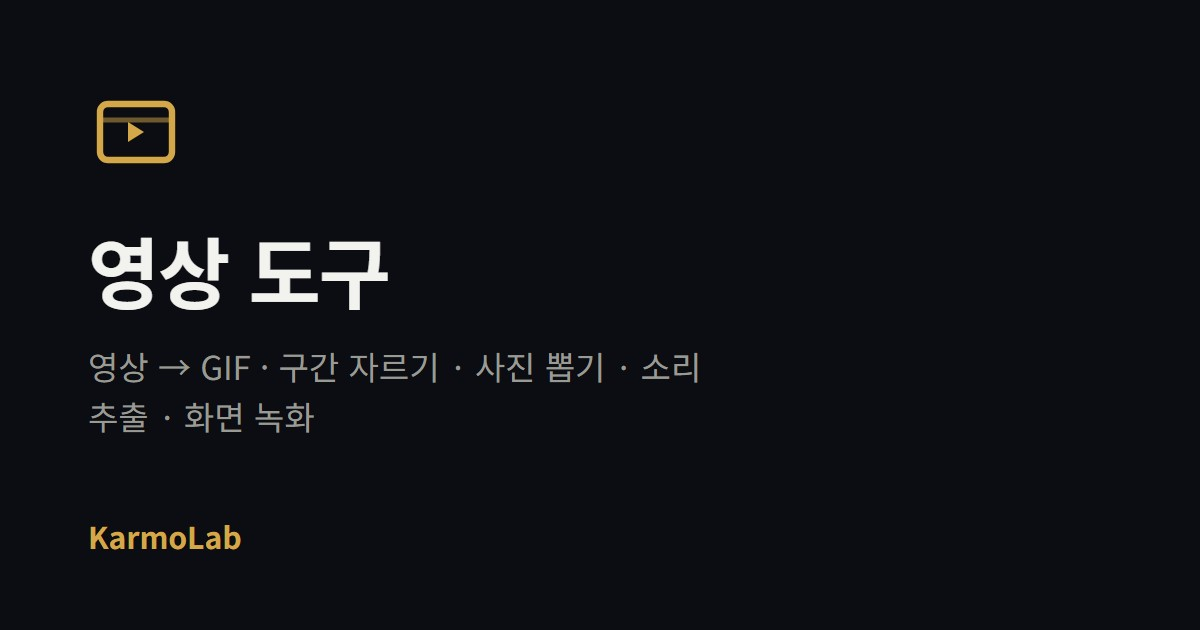
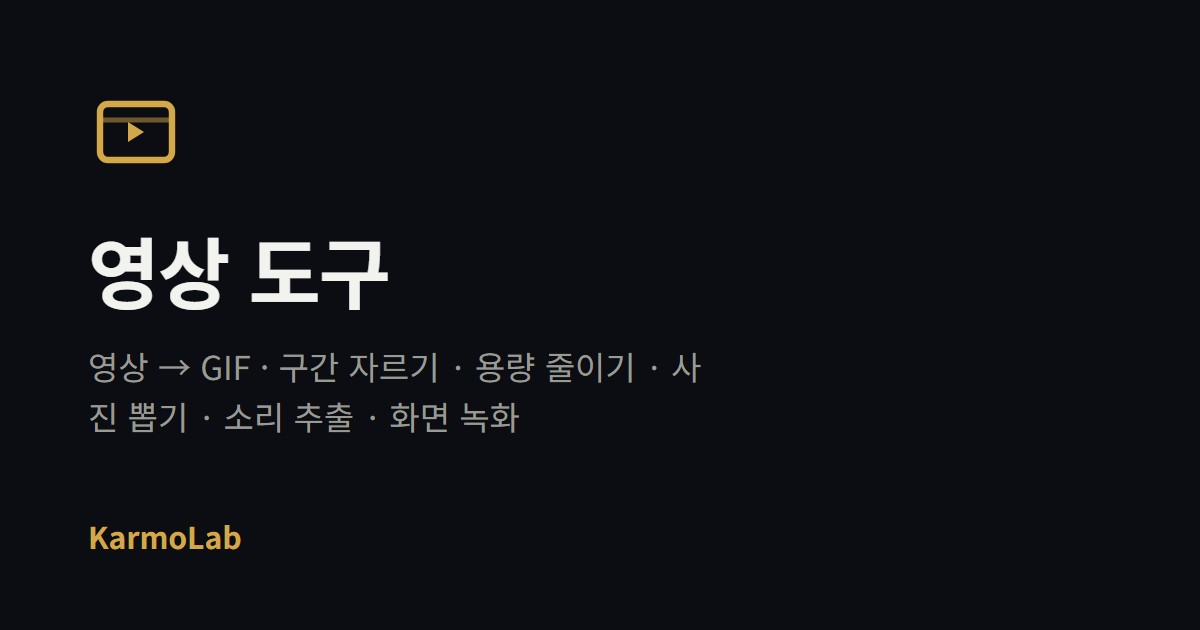
feat(karmolab): 영상 용량 줄이기 (KL-088)
폰으로 찍은 1분 영상이 200MB인데 메일·메신저는 그보다 작은 것만 받는다. 그래서
사람들은 얼굴과 집이 찍힌 파일을 낯선 사이트에 통째로 올린다. 그러지 않아도 되게 했다.

브라우저에는 영상을 다시 엮는 기능이 없어, 재생하면서 작은 화면에 다시 그려 담는다.
즉 영상 길이만큼 걸린다 — 우회가 아니라 유일한 길이라 남은 시간을 그대로 보여 준다.

정직하게 만든 부분: 시작 전에는 예상 용량만 말하고 끝나면 실제 값으로 바꾼다.
이미 잘 눌린 영상은 오히려 커지는데, 그때 줄었다고 우기지 않고 늘었다고 적는다.

Changed region(s): [[0.0617, 0.6333, 0.4317, 0.6937], [0.4008, 0.5429, 0.5858, 0.6032]]

diff --git a/apps/karmolab/src/widgets/tools/videocompress.ts b/apps/karmolab/src/widgets/tools/videocompress.ts
@@ -1,0 +1,283 @@
+/**
+ * 영상 용량 줄이기 (TASK-KL-088)
+ *
+ * 폰으로 찍은 1분 영상이 200MB인데 메일·메신저·제출 창구는 대개 그보다 작은 것만 받는다.
+ * 그래서 사람들은 낯선 사이트에 영상을 통째로 올린다 — 얼굴과 집이 찍힌 파일을.
+ *
+ * 브라우저에는 영상을 다시 엮는 기능이 없다. 대신 **재생하면서 작은 화면에 다시 그려 담을** 수 있다.
+ * 즉 영상 길이만큼 시간이 걸린다. 우회가 아니라 유일한 길이라 숨기지 않고 남은 시간을 보여 준다.
+ *
+ * 「얼마나 줄지」는 해 봐야 알기에, 시작 전 어림값을 보여 주고 끝나면 실제 값으로 바꾼다.
+ * 이미 잘 눌린 영상은 오히려 커질 수 있는데, 그때 줄었다고 우기지 않는다.
+ */
+import { fileSize as size, mmss } from './shared/media';
+import { pickRecordType } from './shared/video';
+
+(function (): void {
+  // captureStream 은 브라우저마다 있고 없고가 갈려 표준 타입에 없다 — 있는지 보고 쓴다.
+  type Capturable = HTMLCanvasElement & { captureStream?: (fps?: number) => MediaStream };
+
+  Toolbox.register({
+    id: 'videocompress',
+    title: '영상 용량 줄이기',
+    category: 'tool',
+    desc: '영상 용량을 줄입니다. 해상도와 화질을 고르고, 영상이 브라우저를 벗어나지 않습니다',
+    layout: 'wide',
+    icon: '<rect x="3" y="5" width="18" height="14" rx="2" stroke="currentColor" stroke-width="1.6" fill="none"/><path d="M8 12h8" stroke="currentColor" stroke-width="1.7" stroke-linecap="round"/><path d="M10.5 9.5 8 12l2.5 2.5M13.5 9.5 16 12l-2.5 2.5" stroke="currentColor" stroke-width="1.5" fill="none" stroke-linecap="round" stroke-linejoin="round"/>',
+    tabs: [
+      {
+        id: 'app',
+        label: '용량 줄이기',
+        build: function (container: HTMLElement): void {
+          container.innerHTML = `
+            <div class="tool-drop" id="vcDrop">
+              <input type="file" id="vcFile" accept="video/*" hidden>
+              영상을 끌어다 놓거나 눌러서 고르세요
+            </div>
+
+            <div id="vcEditor" style="display:none; margin-top:var(--space-lg);">
+              <video id="vcVideo" playsinline muted style="width:100%; max-height:300px; background:#000; border-radius:8px;"></video>
+
+              <div class="field-group" style="margin-top:var(--space-lg);">
+                <div class="tool-grid-2">
+                  <div>
+                    <div class="tool-sublabel">화면 크기 <span id="vcScaleVal" class="range-value">절반</span></div>
+                    <input type="range" id="vcScale" min="1" max="4" step="1" value="2">
+                  </div>
+                  <div>
+                    <div class="tool-sublabel">화질 <span id="vcRateVal" class="range-value">보통</span></div>
+                    <input type="range" id="vcRate" min="1" max="4" step="1" value="2">
+                  </div>
+                </div>
+                <div class="tool-chips" style="margin-top:10px;">
+                  <label class="tool-chip"><input type="checkbox" id="vcAudio" checked> 소리도 함께</label>
+                </div>
+              </div>
+
+              <div class="cc-stats" id="vcStats"></div>
+
+              <div style="display:flex; gap:6px; margin:var(--space-lg) 0; flex-wrap:wrap;">
+                <button class="btn btn-primary" id="vcRun">용량 줄이기</button>
+                <button class="btn btn-ghost" id="vcStop" style="display:none;">중단</button>
+                <button class="btn btn-ghost" id="vcSave" disabled>내려받기</button>
+              </div>
+
+              <div id="vcResult" style="display:none;">
+                <div class="tool-sublabel">줄인 영상 — 확인하고 받으세요</div>
+                <video id="vcPreview" controls playsinline style="width:100%; max-height:280px; background:#000; border-radius:8px;"></video>
+              </div>
+            </div>
+
+            <div class="tool-status" id="vcStatus">영상은 브라우저 안에서만 열립니다 — 어디에도 올리지 않습니다.</div>
+          `;
+
+          const $ = <T extends HTMLElement>(s: string): T => container.querySelector(s) as T;
+          const drop = $<HTMLElement>('#vcDrop');
+          const fileInput = $<HTMLInputElement>('#vcFile');
+          const editor = $<HTMLElement>('#vcEditor');
+          const video = $<HTMLVideoElement>('#vcVideo');
+          const scaleEl = $<HTMLInputElement>('#vcScale');
+          const rateEl = $<HTMLInputElement>('#vcRate');
+          const stats = $<HTMLElement>('#vcStats');
+          const status = $<HTMLElement>('#vcStatus');
+          const runBtn = $<HTMLButtonElement>('#vcRun');
+          const stopBtn = $<HTMLButtonElement>('#vcStop');
+          const saveBtn = $<HTMLButtonElement>('#vcSave');
+          const preview = $<HTMLVideoElement>('#vcPreview');
+
+          const SCALES: Array<[number, string]> = [
+            [0.35, '아주 작게'],
+            [0.5, '절반'],
+            [0.7, '조금 작게'],
+            [1, '그대로']
+          ];
+          // 초당 비트 수 = 용량을 좌우하는 값. 화면이 작으면 적은 값으로도 깨끗하다.
+          const RATES: Array<[number, string]> = [
+            [0.06, '작게'],
+            [0.1, '보통'],
+            [0.16, '좋게'],
+            [0.25, '아주 좋게']
+          ];
+
+          let fileName = '';
+          let sourceSize = 0;
+          let duration = 0;
+          let made: Blob | null = null;
+          let recorder: MediaRecorder | null = null;
+
+          const say = (m: string, kind = ''): void => {
+            status.textContent = m;
+            status.className = 'tool-status' + (kind ? ' ' + kind : '');
+          };
+          const stat = (l: string, v: string, primary = false): string =>
+            `<div class="cc-stat${primary ? ' cc-stat-primary' : ''}"><div class="cc-stat-label">${l}</div><div class="cc-stat-value">${v}</div></div>`;
+
+          function outSize(): { w: number; h: number } {
+            const s = SCALES[parseInt(scaleEl.value, 10) - 1][0];
+            // 짝수로 맞춘다 — 홀수 크기를 싫어하는 코덱이 있다
+            const w = Math.max(2, Math.round((video.videoWidth * s) / 2) * 2);
+            const h = Math.max(2, Math.round((video.videoHeight * s) / 2) * 2);
+            return { w, h };
+          }
+
+          function bitsPerSecond(): number {
+            const { w, h } = outSize();
+            return Math.round(w * h * 30 * RATES[parseInt(rateEl.value, 10) - 1][0]);
+          }
+
+          function refresh(): void {
+            if (!duration) return;
+            $<HTMLElement>('#vcScaleVal').textContent = SCALES[parseInt(scaleEl.value, 10) - 1][1];
+            $<HTMLElement>('#vcRateVal').textContent = RATES[parseInt(rateEl.value, 10) - 1][1];
+            const { w, h } = outSize();
+            const guess = (bitsPerSecond() / 8) * duration;
+            stats.innerHTML =
+              stat('원래 용량', size(sourceSize), true) +
+              stat('만들 크기', `${w}×${h}`) +
+              stat('예상 용량', '약 ' + size(guess)) +
+              // 실시간으로 다시 담기 때문에 영상 길이만큼 걸린다. 미리 알려야 「멈춘 건가」 오해가 없다.
+              stat('걸리는 시간', `약 ${mmss(duration)}`);
+          }
+
+          function load(f: File): void {
+            fileName = f.name;
+            sourceSize = f.size;
+            made = null;
+            saveBtn.disabled = true;
+            $<HTMLElement>('#vcResult').style.display = 'none';
+            video.src = URL.createObjectURL(f);
+            video.onloadedmetadata = () => {
+              duration = video.duration;
+              editor.style.display = '';
+              refresh();
+              say(`${f.name} · ${size(f.size)} · ${video.videoWidth}×${video.videoHeight} — 설정을 고르고 줄이세요.`, 'ok');
+            };
+            video.onerror = () => say('이 영상은 브라우저가 열지 못했어요. mp4·webm 은 대체로 됩니다.', 'error');
+          }
+
+          async function run(): Promise<void> {
+            const { w, h } = outSize();
+            const canvas = document.createElement('canvas') as Capturable;
+            canvas.width = w;
+            canvas.height = h;
+            const ctx = canvas.getContext('2d');
+            if (!ctx || !canvas.captureStream) {
+              say('이 브라우저는 영상 담기를 지원하지 않아요. 크롬·엣지에서 열어 보세요.', 'error');
+              return;
+            }
+
+            made = null;
+            saveBtn.disabled = true;
+            $<HTMLElement>('#vcResult').style.display = 'none';
+
+            const out = canvas.captureStream(30);
+            // 소리는 원본 영상에서 그대로 가져온다 (다시 그리는 건 화면뿐이다)
+            if ($<HTMLInputElement>('#vcAudio').checked) {
+              const withAudio = video as HTMLVideoElement & { captureStream?: () => MediaStream };
+              const src = withAudio.captureStream?.();
+              src?.getAudioTracks().forEach((t) => out.addTrack(t));
+            }
+
+            const mimeType = pickRecordType();
+            const chunks: Blob[] = [];
+            recorder = new MediaRecorder(out, {
+              ...(mimeType ? { mimeType } : {}),
+              videoBitsPerSecond: bitsPerSecond()
+            });
+            recorder.ondataavailable = (ev) => {
+              if (ev.data.size) chunks.push(ev.data);
+            };
+            const finished = new Promise<Blob>((resolve) => {
+              (recorder as MediaRecorder).onstop = () => resolve(new Blob(chunks, { type: mimeType || 'video/webm' }));
+            });
+
+            video.currentTime = 0;
+            runBtn.disabled = true;
+            stopBtn.style.display = '';
+            recorder.start(300);
+            void video.play();
+
+            let raf = 0;
+            const draw = (): void => {
+              ctx.drawImage(video, 0, 0, w, h);
+              raf = requestAnimationFrame(draw);
+            };
+            draw();
+
+            const stop = (): void => {
+              cancelAnimationFrame(raf);
+              video.pause();
+              if (recorder && recorder.state !== 'inactive') recorder.stop();
+            };
+            stopBtn.onclick = stop;
+            video.onended = stop;
+
+            const watch = window.setInterval(() => {
+              const left = Math.max(0, duration - video.currentTime);
+              say(`다시 담는 중… ${mmss(left)} 남음 (영상을 재생하며 담습니다)`);
+            }, 300);
+
+            made = await finished;
+            window.clearInterval(watch);
+            video.onended = null;
+            runBtn.disabled = false;
+            stopBtn.style.display = 'none';
+            recorder = null;
+
+            if (!made || made.size < 100) {
+              say('담긴 내용이 없어요.', 'error');
+              return;
+            }
+            preview.src = URL.createObjectURL(made);
+            $<HTMLElement>('#vcResult').style.display = '';
+            saveBtn.disabled = false;
+
+            const pct = Math.round(Math.abs(1 - made.size / sourceSize) * 100);
+            stats.innerHTML =
+              stat('원래 용량', size(sourceSize)) +
+              stat('줄인 용량', size(made.size), true) +
+              stat('변화', made.size < sourceSize ? `${pct}% 줄어듦` : `${pct}% 늘어남`) +
+              stat('크기', `${w}×${h}`);
+            // 이미 잘 눌린 영상은 다시 담으면 커진다 — 그때 줄었다고 말하면 거짓이 된다
+            if (made.size >= sourceSize) {
+              say(`줄지 않았어요 (${size(sourceSize)} → ${size(made.size)}). 이미 잘 압축된 영상입니다. 화면 크기나 화질을 낮추면 줄지만 흐려집니다.`, 'error');
+            } else {
+              say(`${size(sourceSize)} → ${size(made.size)} (${pct}% 줄었어요). 확인하고 받으세요.`, 'ok');
+            }
+            Toolbox.trackUse?.('compress');
+          }
+
+          drop.onclick = () => fileInput.click();
+          fileInput.onchange = () => {
+            if (fileInput.files?.[0]) load(fileInput.files[0]);
+          };
+          drop.addEventListener('dragover', (e) => {
+            e.preventDefault();
+            drop.classList.add('over');
+          });
+          drop.addEventListener('dragleave', () => drop.classList.remove('over'));
+          drop.addEventListener('drop', (e) => {
+            e.preventDefault();
+            drop.classList.remove('over');
+            const f = e.dataTransfer?.files?.[0];
+            if (f) load(f);
+          });
+          [scaleEl, rateEl].forEach((el) => el.addEventListener('input', refresh));
+
+          runBtn.onclick = () => {
+            void run().catch((err: Error) => say('줄이는 중 문제가 생겼어요: ' + err.message, 'error'));
+          };
+          saveBtn.onclick = () => {
+            if (!made) return;
+            const a = document.createElement('a');
+            a.href = URL.createObjectURL(made);
+            a.download = fileName.replace(/\.[^.]+$/, '') + '-작게.webm';
+            a.click();
+            setTimeout(() => URL.revokeObjectURL(a.href), 2000);
+            say('내려받았어요.', 'ok');
+          };
+        }
+      }
+    ]
+  });
+})();

diff --git a/apps/karmolab/src/widgets-lazy-meta.ts b/apps/karmolab/src/widgets-lazy-meta.ts
@@ -490,6 +490,17 @@ window.KARMOLAB_LAZY_META = [
     lazyScriptPaths: ['tools/videotrim']
   },
   {
+    id: 'videocompress',
+    hidden: true, // 「영상 도구」 위젯의 탭으로 합쳐짐 — 검색 유입 주소는 유지
+    bundle: 'videotool', // 이 도구를 부르면 묶음의 이 탭으로 간다
+    title: '영상 용량 줄이기',
+    category: 'tool',
+    desc: '영상 용량을 줄입니다. 해상도와 화질을 고르고, 영상이 브라우저를 벗어나지 않습니다',
+    layout: 'wide',
+    icon: '<rect x="3" y="5" width="18" height="14" rx="2" stroke="currentColor" stroke-width="1.6" fill="none"/><path d="M8 12h8" stroke="currentColor" stroke-width="1.7" stroke-linecap="round"/><path d="M10.5 9.5 8 12l2.5 2.5M13.5 9.5 16 12l-2.5 2.5" stroke="currentColor" stroke-width="1.5" fill="none" stroke-linecap="round" stroke-linejoin="round"/>',
+    lazyScriptPaths: ['tools/videocompress']
+  },
+  {
     id: 'video2img',
     hidden: true, // 「영상 도구」 위젯의 탭으로 합쳐짐 — 검색 유입 주소는 유지
     bundle: 'videotool', // 이 도구를 부르면 묶음의 이 탭으로 간다
@@ -530,7 +541,7 @@ window.KARMOLAB_LAZY_META = [
     layout: 'wide',
     lazyTabs: true, // 처리가 무겁다 — 연 탭만 만든다
     icon: '<rect x="3" y="5" width="18" height="14" rx="2" stroke="currentColor" stroke-width="1.6" fill="none"/><path d="M10 9.5v5l4-2.5z" fill="currentColor"/><path d="M3 9h18" stroke="currentColor" stroke-width="1.2" opacity="0.5"/>',
-    lazyScriptPaths: ['tools/gifenc', 'tools/video2gif', 'tools/videotrim', 'tools/video2img', 'tools/video2audio', 'tools/screenrec', 'tools/videotool']
+    lazyScriptPaths: ['tools/gifenc', 'tools/video2gif', 'tools/videotrim', 'tools/videocompress', 'tools/video2img', 'tools/video2audio', 'tools/screenrec', 'tools/videotool']
   },
   {
     id: 'charcount',

diff --git a/apps/karmolab/src/widgets/tools/videotool.ts b/apps/karmolab/src/widgets/tools/videotool.ts
@@ -7,7 +7,8 @@
 (function (): void {
   const PARTS: Array<[string, string]> = [
     ['video2gif', 'GIF 만들기'],
-    ['videotrim', '자르기'],
+    ['videotrim', '구간 자르기'],
+    ['videocompress', '용량 줄이기'],
     ['video2img', '사진 뽑기'],
     ['video2audio', '소리 추출'],
     ['screenrec', '화면 녹화']
